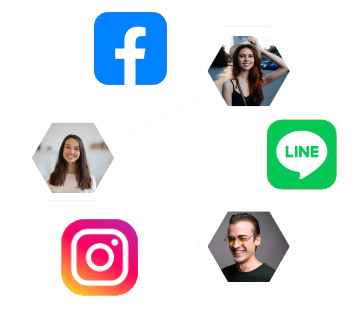
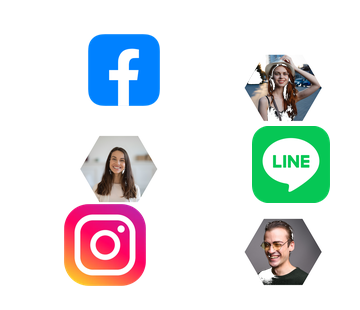
Fix transparent assets in 3-step cards

diff --git a/design.md b/design.md
@@ -843,6 +843,7 @@
 - How It Works image URL fix on 2026-06-11: the step image `src` values now use the Vite `import.meta.env.BASE_URL` prefix so the same copied assets from `pages/affillate page` resolve correctly on local root builds and production subpath builds instead of falling back to broken-image alt text.
 - Three-step image-card layout fix on 2026-06-11: the How It Works image cards now use visual-only cropped assets from `pages/affillate page` and a single shared large card frame for all three steps. The external number/title/body remain above each card only; duplicated card-internal step labels/body copy are removed. Desktop, tablet, mobile-desktop, and mobile portrait use the same card dimensions, radius, padding logic, gradient background, border, and contain-fit image behavior for Boxes 1, 2, and 3, with the prior mobile white outer wrapper panels removed.
 - Three-step asset transparency fix on 2026-06-11: the current visual-only PNGs for the How It Works cards have transparent backgrounds so the existing card gradient/background is the only visible backdrop. No card CSS, sizing, radius, spacing, typography, or responsive structure changed; only the baked peach/brown pixels in the image assets were removed.
+- Card 2 transparency follow-up on 2026-06-11: the transparent Share visual keeps the supplied Facebook (`3Share.png`), Instagram (`Share (3).png`), and LINE (`Share (2).png`) icon assets in the card composition alongside the share-network visual, with no embedded colored rectangle behind them.
 - Affiliate Dashboard / Start Earning Today section on 2026-06-11: added a new soft peach/orange `#ffb28f` section directly below the white Affiliate Rewards / Referral Cards section and above How It Works. It uses scoped Montserrat-first typography, real text for `Start Earning Today`, the tracking-tools paragraph, `Easy-to-use Dashboards`, dashboard body copy, and a compact black `Get Started` pill CTA with a white circular SVG arrow.
 - Affiliate Dashboard image and layout direction: the supplied dashboard illustration from `pages/affillate page/23.Start Earning Today.png` is copied to `public/images/affiliate/affiliate-dashboard.png` and displayed inside the white dashboard card with `object-fit: contain` and alt text `Affiliate dashboard analytics illustration`. Desktop/tablet use a wide balanced two-column white card with copy left and image right; mobile portrait stacks the uploaded dashboard image above centered copy/button while keeping the card compact and avoiding horizontal overflow.
 

diff --git a/AGENT.md b/AGENT.md
@@ -1413,6 +1413,7 @@
   - `design.md`
 - Updated only the three current How It Works image assets. No card/container CSS, layout, spacing, sizing, border radius, typography, header, footer, Affiliate Hero + Stats, or Affiliate Rewards / Referral Cards code was changed.
 - Removed the baked peach/brown background from the current visual PNGs so the existing card background shows through naturally. Step 1 now uses a rounded alpha mask around the signup preview, while Step 2 and Step 3 use transparent background-connected pixels around the social/share and money-bag visuals.
+- Card 2 `share-visual.png` preserves the supplied `3Share.png`, `Share (3).png`, and `Share (2).png` Facebook, Instagram, and LINE assets together with the share-network visual; only the old embedded card background was removed.
 - Verified the assets have alpha transparency and composited them on a bright test background to confirm the old rectangular fill is removed from the image files.
 - Checks on 2026-06-11: `cmd /c npx tsc --noEmit`, `cmd /c npm run build`, and `git diff --check`.
 
